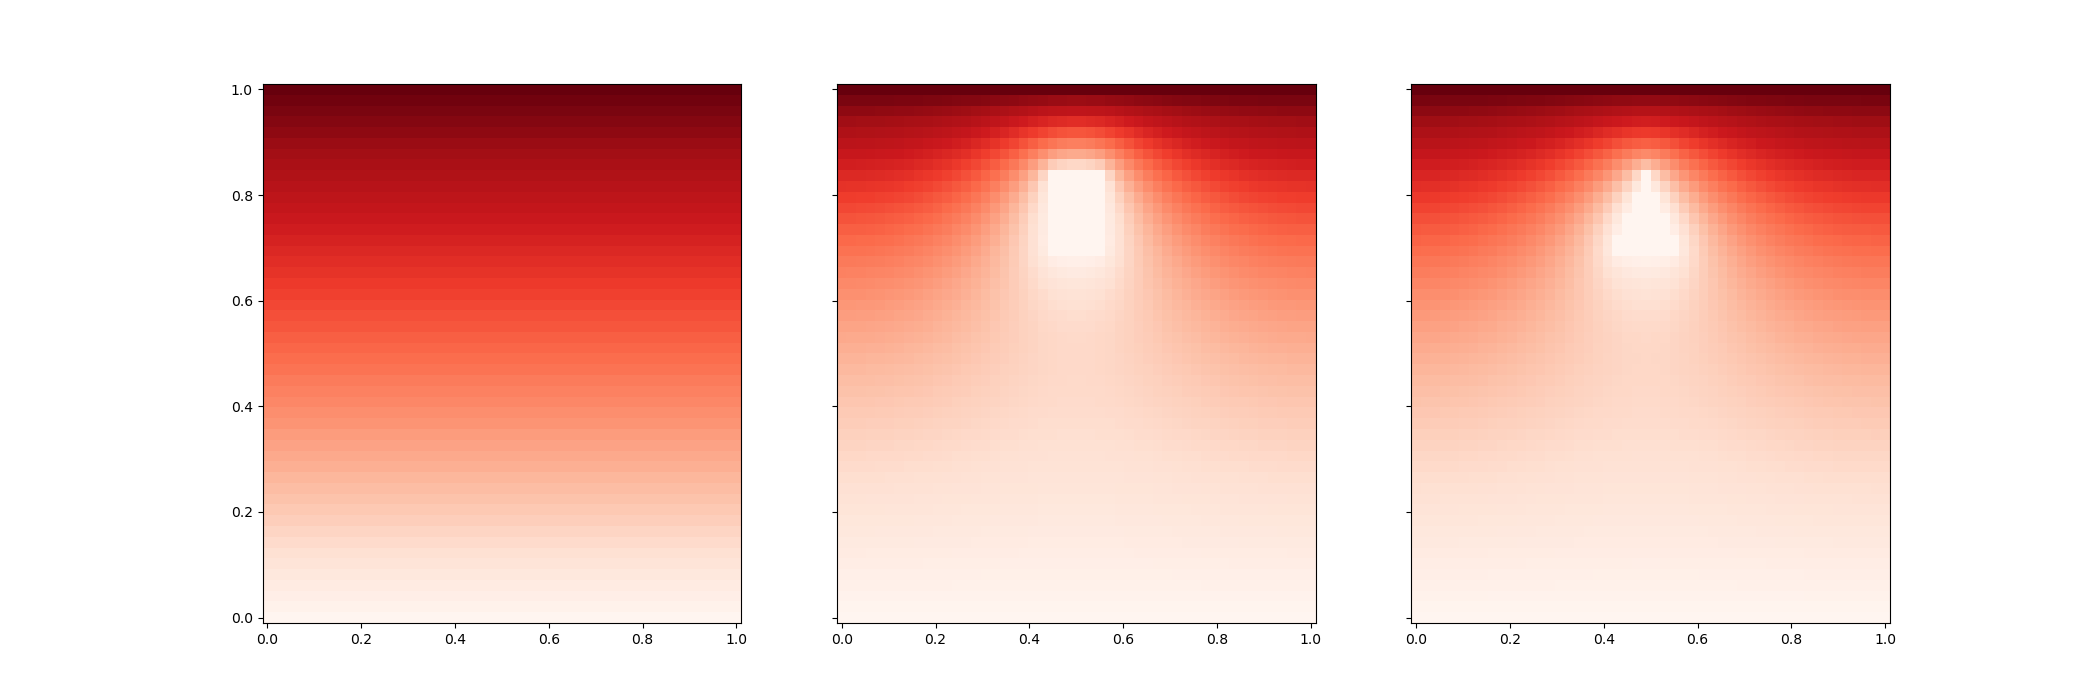
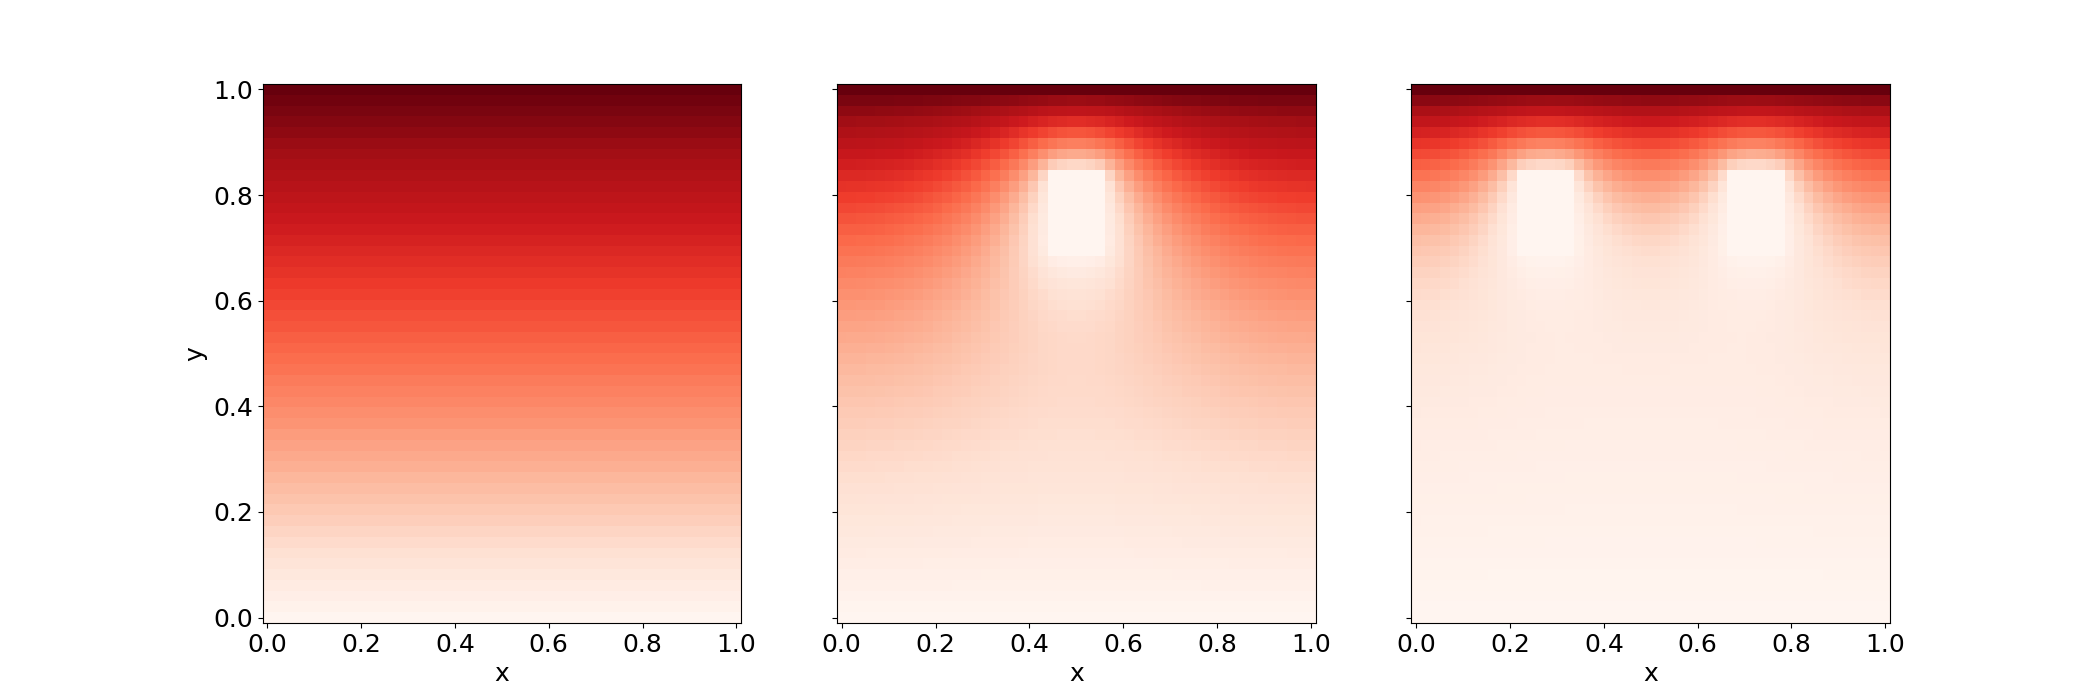
Set labelsize to 18

diff --git a/set1/time_indep_diffusion_eq/results.py b/set1/time_indep_diffusion_eq/results.py
@@ -7,7 +7,7 @@ from main import laplace_solver
 #######################################
 # Comparison with analytical solution #
 #######################################
-"""
+
 N = 50
 system = laplace_solver(N)
 
@@ -33,16 +33,20 @@ for pos in y:
     exact.append(system.exact_sol(pos, 100))
 
 # Plot the different solutions
-plt.figure(figsize=(10,7))
+plt.figure(figsize=(10,6))
 
 plt.plot(np.linspace(0,1, N), sol_jacobi[::-1], color = 'red', label = 'Jacobi iteration')
 plt.plot(np.linspace(0,1, N), sol_gs[::-1], color = 'blue', label = 'Gauss-Seidel iteration')
 plt.plot(np.linspace(0,1, N), sol_sor[::-1], color = 'goldenrod', label = 'SOR iteration')
 plt.plot(y, exact, color = 'black', label = 'Analytical solution', linestyle = 'dashed')
 
-plt.xlabel('y', fontsize = 16)
-plt.ylabel('concentration', fontsize = 16)
-plt.legend()
+plt.xlabel('y', fontsize = 18)
+plt.ylabel('concentration', fontsize = 18)
+plt.xticks(fontsize = 18)
+plt.yticks(fontsize = 18)
+plt.legend(fontsize = 18)
+plt.grid(axis='y', linestyle='dashed')
+plt.tight_layout()
 plt.savefig('figures/compare_to_exact.png')
 
 ###################################################
@@ -73,16 +77,20 @@ for d in tolerance:
     system.set_omega(1.9)
     n_iter_sor_1_9.append(system.solve(method='sor'))
 
-plt.figure()
+plt.figure(figsize=(10,6))
 
 plt.semilogx(tolerance, n_iter_jacobi, color = 'red', label = 'Jacobi iteration', marker='o')
 plt.semilogx(tolerance, n_iter_gs, color = 'blue', label = 'Gauss-Seidel iteration', marker='x')
 plt.semilogx(tolerance, n_iter_sor_1_5, color = 'goldenrod', label = 'SOR iteration ($\omega$ = 1.5)', marker='s')
 plt.semilogx(tolerance, n_iter_sor_1_9, color = 'black', label = 'SOR iteration ($\omega$ = 1.9)', marker='^')
 
-plt.legend()
-plt.xlabel('Tolerance', fontsize = 16)
-plt.ylabel('Iterations', fontsize = 16)
+plt.legend(fontsize = 18)
+plt.xlabel('Tolerance', fontsize = 18)
+plt.ylabel('Iterations', fontsize = 18)
+plt.xticks(fontsize = 18)
+plt.yticks(fontsize = 18)
+plt.grid(axis='y', linestyle='dashed')
+plt.tight_layout()
 plt.savefig('figures/convergence.png')
 
 #######################################
@@ -101,13 +109,15 @@ for N in sizes:
     for omega in omegas:
         system.omega = omega
         system.construct_grid()
+        if omega == 1.99:
+            x = 5
         n_iter.append(system.solve(method='sor'))
 
     # Store results
     optimal_omega.append(omegas[np.argwhere(n_iter == np.min(n_iter))[0,0]])   
     iterations.append(n_iter)
 
-fig, axs = plt.subplots(1,2, figsize = (14,5))
+fig, axs = plt.subplots(1,2, figsize = (20,6))
 
 axs[0].plot(omegas, iterations[0], color='black', label = 'N = 10')
 axs[0].plot(omegas, iterations[1], color = 'red', label = 'N = 30')
@@ -115,18 +125,22 @@ axs[0].plot(omegas, iterations[2], color = 'blue', label = 'N = 50')
 axs[0].scatter(omegas[np.argwhere(iterations[0] == np.min(iterations[0]))[0,0]], iterations[0][np.argwhere(iterations[0] == np.min(iterations[0]))[0,0]], color = 'black')
 axs[0].scatter(omegas[np.argwhere(iterations[1] == np.min(iterations[1]))[0,0]], iterations[1][np.argwhere(iterations[1] == np.min(iterations[1]))[0,0]], color = 'red')
 axs[0].scatter(omegas[np.argwhere(iterations[2] == np.min(iterations[2]))[0,0]], iterations[2][np.argwhere(iterations[2] == np.min(iterations[2]))[0,0]], color = 'blue')
-axs[0].legend()
+axs[0].legend(fontsize = 18)
 
 axs[1].plot(sizes, optimal_omega, marker = 'o', color = 'black')
 
-axs[0].set_xlabel('$\omega$', fontsize = 16)
-axs[0].set_ylabel('iterations', fontsize = 16)
-axs[1].set_xlabel('N', fontsize = 16)
-axs[1].set_ylabel('$\omega_{opt}$', fontsize = 16)
+axs[0].set_xlabel('$\omega$', fontsize = 18)
+axs[0].set_ylabel('iterations', fontsize = 18)
+axs[1].set_xlabel('N', fontsize = 18)
+axs[1].set_ylabel('$\omega_{opt}$', fontsize = 18)
+
+for ax in axs:
+    ax.yaxis.grid(True, linestyle = 'dashed')
+    ax.tick_params(axis = 'both', labelsize = 18)
 
 plt.tight_layout()
 plt.savefig(('figures/opt_omega.png'))
-"""
+
 ##################
 # Adding objects #
 ##################
@@ -134,39 +148,28 @@ plt.savefig(('figures/opt_omega.png'))
 N = 50
 
 # Defining rectangle and triangle
-rectangle = []
+rectangle_1 = []
 
 for j in range(8, 16):
     for i in range(22, 28):
-        rectangle.append((j,i))
+        rectangle_1.append((j,i))
 
-triangle = []
-center = 25
+rectangle_2 = []
 
-for j in range(8, 16, 2):
-    # Edges
-    length = (j - 8)//2
-    triangle.append((j,center - length))
-    triangle.append((j+1,center - length))
-    if length != 0:
-        triangle.append((j, center + length))
-        triangle.append((j+1, center + length))
-    
-    # Bottom row
-    if j == 14:
-        print(center - length)
-        for i in range(center - length + 1, center + length):
-            triangle.append((j+1, i))
+for j in range(8, 16):
+    for i in range(11, 17):
+        rectangle_2.append((j, i))
+        rectangle_2.append((j, i+22))
 
 omegas = np.linspace(1.5, 1.99, 50)
 
 system0 = laplace_solver(N)
 
 system1 = laplace_solver(N)
-system1.set_objects(rectangle)
+system1.set_objects(rectangle_1)
 
 system2 = laplace_solver(N)
-system2.set_objects(triangle)
+system2.set_objects(rectangle_2)
 
 n_iter = [[],[],[]]
 
@@ -183,18 +186,20 @@ for omega in omegas:
     n_iter[1].append(system1.solve(method='sor'))
     n_iter[2].append(system2.solve(method='sor'))
 
-fig, axs = plt.subplots(figsize = (10,7))
+fig, axs = plt.subplots(figsize = (10,6))
 
 axs.plot(omegas, n_iter[0], color='black', label = 'No objects')
-axs.plot(omegas, n_iter[1], color = 'red', label = 'Rectangle')
-axs.plot(omegas, n_iter[2], color = 'blue', label = 'Triangle')
+axs.plot(omegas, n_iter[1], color = 'red', label = '1 rectangle')
+axs.plot(omegas, n_iter[2], color = 'blue', label = '2 rectangles')
 axs.scatter(omegas[np.argwhere(n_iter[0] == np.min(n_iter[0]))[0,0]], n_iter[0][np.argwhere(n_iter[0] == np.min(n_iter[0]))[0,0]], color = 'black')
 axs.scatter(omegas[np.argwhere(n_iter[1] == np.min(n_iter[1]))[0,0]], n_iter[1][np.argwhere(n_iter[1] == np.min(n_iter[1]))[0,0]], color = 'red')
 axs.scatter(omegas[np.argwhere(n_iter[2] == np.min(n_iter[2]))[0,0]], n_iter[2][np.argwhere(n_iter[2] == np.min(n_iter[2]))[0,0]], color = 'blue')
-axs.legend()
+axs.legend(fontsize = 18)
 
-axs.set_xlabel('$\omega$', fontsize = 16)
-axs.set_ylabel('iterations', fontsize = 16)
+axs.set_xlabel('$\omega$', fontsize = 18)
+axs.set_ylabel('iterations', fontsize = 18)
+axs.tick_params(axis = 'both', labelsize = 18)
+axs.yaxis.grid(True, linestyle = 'dashed')
 
 plt.tight_layout()
 plt.savefig('figures/objects_omega.png')
@@ -206,5 +211,11 @@ fig, axs = plt.subplots(1, 3, figsize = (21,7), sharex=True, sharey=True)
 axs[0].pcolormesh(yy, xx, system0.grid, cmap='Reds')
 axs[1].pcolormesh(yy, xx, system1.grid, cmap='Reds')
 axs[2].pcolormesh(yy, xx, system2.grid, cmap='Reds')
+
+for ax in axs:
+    ax.tick_params(axis = 'both', labelsize = 18)
+    ax.set_xlabel('x', fontsize = 18)
+    ax.set_ylabel('y', fontsize = 18)
+    ax.label_outer()
 
 plt.savefig('figures/objects-2D.png')
